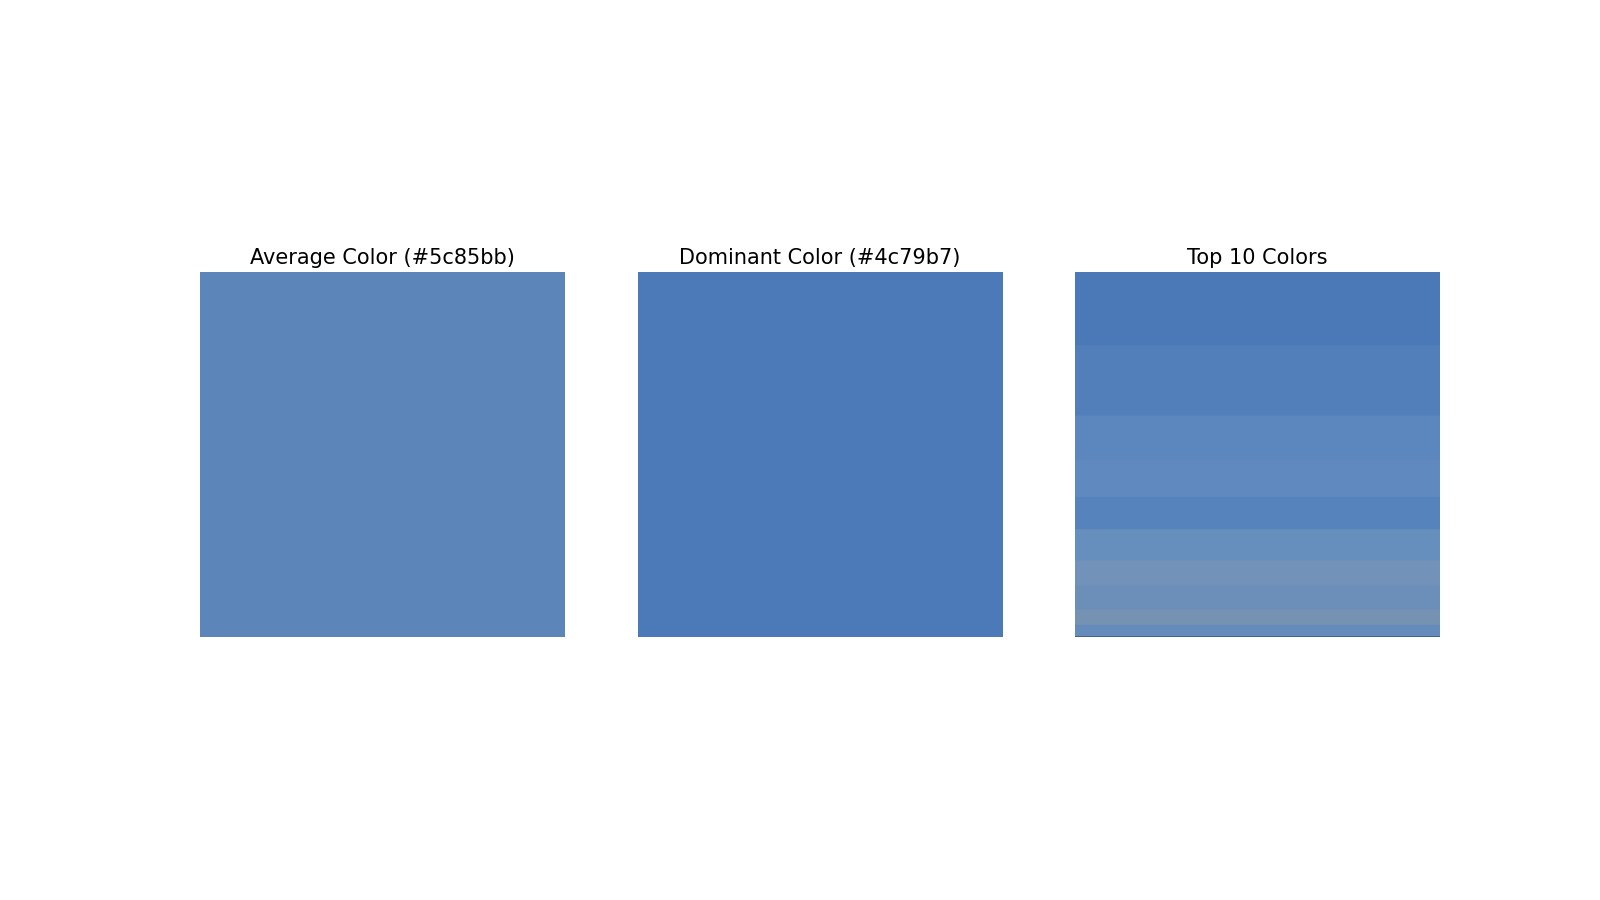
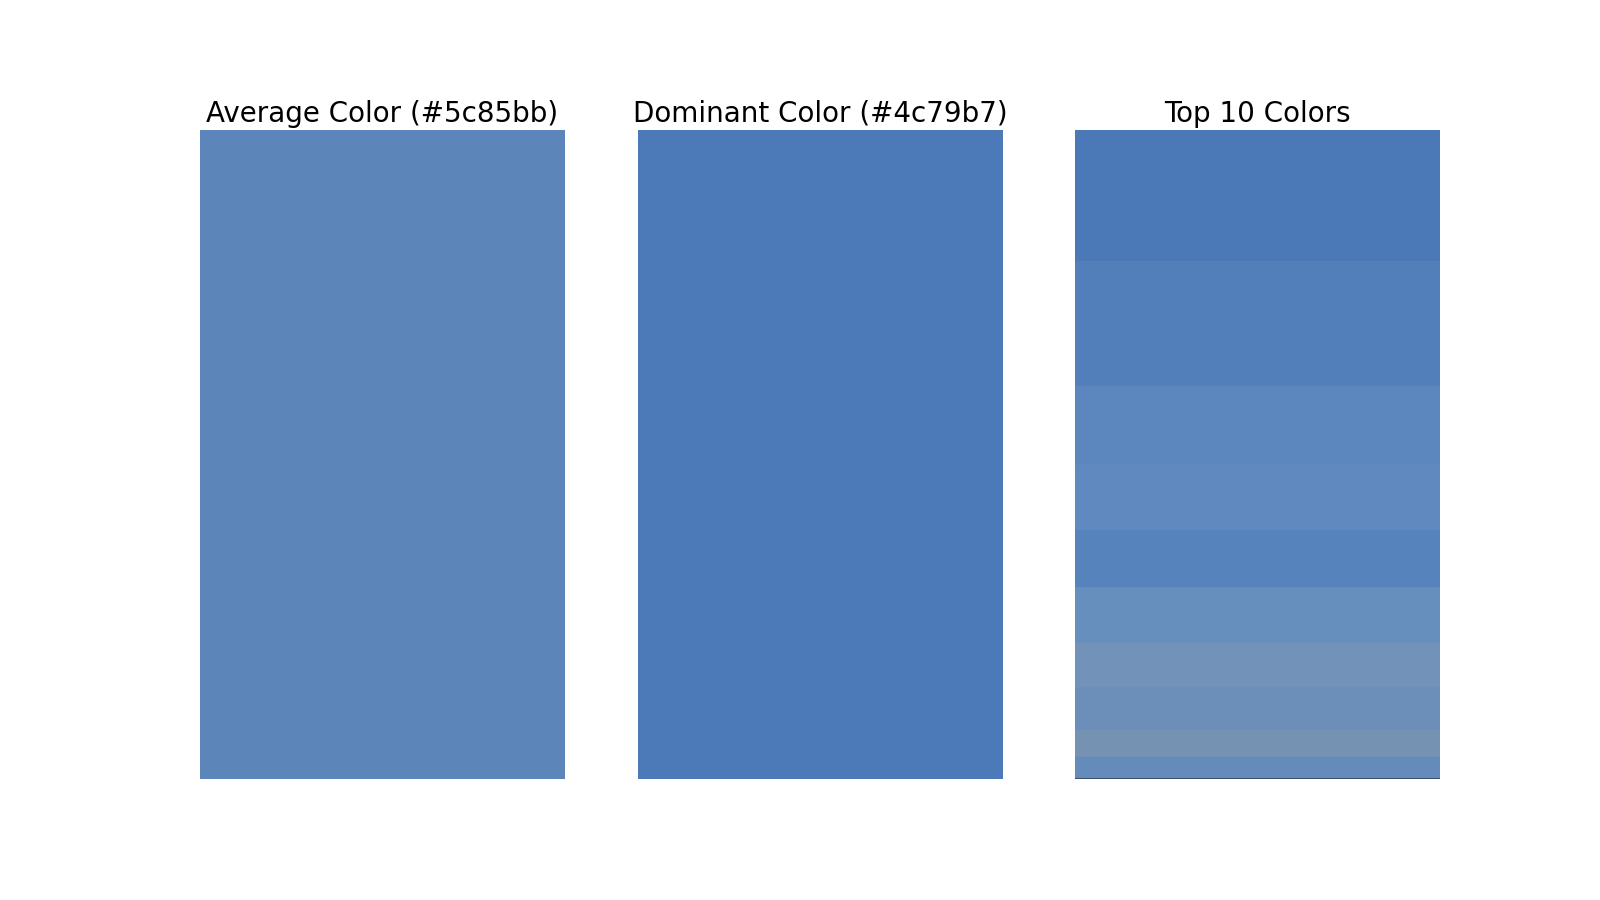
Initial Working Twitter Bot
This initial version uses k-means clustering to determine the top 10 dominant colors and posts the graphics to twitter.

diff --git a/capture_image.js b/capture_image.js
@@ -1,0 +1,31 @@
+const puppeteer = require('puppeteer');
+
+const output_file = process.argv[2];
+
+function timeout(ms) {
+    return new Promise(resolve => setTimeout(resolve, ms));
+};
+
+(async() => {
+    //const browser = await puppeteer.launch();
+
+    const browser = await puppeteer.launch({
+      executablePath: '/bin/google-chrome',
+      headless:false, 
+      defaultViewport:null,
+      devtools: false,
+      args: ["--window-size=1920,800"]
+
+    })
+    const page = await browser.newPage();
+    //await page.setViewport({width: 5960, height: 1000})
+    await page.goto('https://www.youtube.com/watch?v=OEvLTpOKWDM');
+    await timeout(5000)
+    await page.keyboard.press('k');
+    await timeout(1000)
+    await page.keyboard.press('f');
+    await timeout(45000)
+    await page.screenshot({path: output_file});
+    browser.close();
+
+})();

diff --git a/utils.py b/utils.py
@@ -25,6 +25,79 @@ import cv2
 import numpy as np
 from skimage import io
 import matplotlib.pyplot as plt
+from datetime import datetime
+import os
+from twitterutils.twitterutils import tweet
+
+image_dir = "./images"
+raw_dir = os.path.join(image_dir, "raw")
+processed_dir = os.path.join(image_dir, "daily")
+
+def capture_image(filename):
+    """ Captures an image using NodeJS and Puppeteer and saves it to a png file """
+
+    try:
+        os.system("node capture_image.js " + filename)
+    except:
+        return False
+
+    return True
+
+def capture_image_and_tweet():
+    """ Captures an image and tweets the colors """
+ 
+    now = datetime.now()
+
+    baseline_filename = now.strftime("%Y_%m_%d_%H_%M")
+    baseline_folder = now.strftime("%Y_%m_%d")
+    time_ran = now.strftime("%-I:%M %p")
+
+    try:
+        raw_daily_directory = os.path.join(raw_dir, baseline_folder)
+        processed_daily_directory = os.path.join(processed_dir, baseline_folder)
+
+        os.makedirs(raw_daily_directory, exist_ok=True)
+        os.makedirs(processed_daily_directory, exist_ok=True)
+
+        raw_file = os.path.join(raw_daily_directory, baseline_filename+"_raw.png")
+        dom_file = os.path.join(processed_daily_directory, baseline_filename+"_dom.png")
+        avg_file = os.path.join(processed_daily_directory, baseline_filename+"_avg.png")
+        overall_file = os.path.join(processed_daily_directory, baseline_filename+"_overall.png")
+
+        if capture_image(raw_file) == False:
+            print("Error Occurred When Capturing Image...")
+            return
+
+        dom_color, avg_color, color_list = produce_plots(raw_file,
+                                                        dom_file,
+                                                        avg_file,
+                                                        overall_file)
+
+        # print("Average Color: " + avg_color)
+        # print("Dominant Color: " + dom_color)
+
+        tweet_text = f"The top colors in the sky for Grand Forks, ND at {time_ran} are (in order of dominance):"
+
+        for c in color_list:
+            tweet_text += f"\n{c}"
+
+        # Tweet Overall Graphic
+        previous_id = tweet(tweet_text, image_path=overall_file, enable_tweet=True)
+
+        # Tweet Average Graphic
+        tweet_text =  f"The average color of the sky in Grand Forks, ND at {time_ran} is {avg_color}. Read more about this color: https://encycolorpedia.com/{avg_color[1:]}"
+        previous_id = tweet(tweet_text, image_path=avg_file, in_reply_to_status_id=previous_id, enable_tweet=True)
+
+        # Tweet Dominant Graphic
+        tweet_text =  f"The dominant color of the sky in Grand Forks, ND at {time_ran} is {dom_color}. Read more about this color: https://encycolorpedia.com/{dom_color[1:]}"
+        previous_id = tweet(tweet_text, image_path=dom_file, in_reply_to_status_id=previous_id, enable_tweet=True)
+
+        print(f"Successful Run: {time_ran}")
+
+    except Exception as e:
+        print(f"Failed Run: {time_ran}\n" + str(e))
+
+    return
 
 def produce_plots(input_image, dom_image, avg_image, overall_image):
     """ Takes an an input image and outputs:
@@ -66,7 +139,7 @@ def produce_plots(input_image, dom_image, avg_image, overall_image):
     avg_hex = '#%02x%02x%02x' % tuple(np.uint8(np.round(average)))
 
     # Plot Results
-    output_shape=(1300, 1300, 3)
+    output_shape=(1600, 900, 3)
     avg_patch = np.ones(shape=output_shape, dtype=np.uint8)*np.uint8(average)
     dom_patch = np.ones(shape=output_shape, dtype=np.uint8)*np.uint8(np.round(dominant))
 
@@ -82,26 +155,35 @@ def produce_plots(input_image, dom_image, avg_image, overall_image):
     freqs = np.cumsum(np.hstack([[0], counts[indices]/float(counts.sum())]))
     rows = np.int_(output_shape[0]*freqs)
 
+    # Keep Ordered List of Dominant Colors
+    color_list = list()
+
+    for i in indices:
+        hex_color = '#%02x%02x%02x' % tuple(np.uint8(np.round(palette[i])))
+
+        if hex_color not in color_list:
+            color_list.append(hex_color)
+
     all_patch = np.zeros(shape=output_shape, dtype=np.uint8)
     for i in range(len(rows) - 1):
         all_patch[rows[i]:rows[i + 1], :, :] += np.uint8(palette[indices[i]])
 
     fig, (ax0, ax1, ax2) = plt.subplots(1, 3, figsize=(16,9))
     ax0.imshow(avg_patch)
-    ax0.set_title(f'Average Color ({avg_hex})', fontsize=15)
+    ax0.set_title(f'Average Color ({avg_hex})', fontsize=20)
     ax0.axis('off')
     ax1.imshow(dom_patch)
-    ax1.set_title(f'Dominant Color ({dom_hex})', fontsize=15)
+    ax1.set_title(f'Dominant Color ({dom_hex})', fontsize=20)
     ax1.axis('off')
     ax2.imshow(all_patch)
-    ax2.set_title(f'Top {n_colors} Colors', fontsize=15)
+    ax2.set_title(f'Top {len(color_list)} Colors', fontsize=20)
     ax2.axis('off')
     plt.savefig(overall_image)
 
-    return dom_hex, avg_hex
+    return dom_hex, avg_hex, color_list
 
 if __name__ == "__main__":
-    dom_color, avg_color = produce_plots("./example/example.png",
-                                         "./example/dominant.png",
-                                         "./example/average.png",
-                                         "./example/overall.png")
+    dom_color, avg_color, color_list = produce_plots("./example/example.png",
+                                                     "./example/dominant.png",
+                                                     "./example/average.png",
+                                                     "./example/overall.png")

diff --git a/run.py b/run.py
@@ -1,0 +1,51 @@
+#!/usr/bin/env python
+# encoding: utf-8
+
+# Copyright (c) 2021 Grant Hadlich
+#
+#
+# Permission is hereby granted, free of charge, to any person obtaining a copy
+# of this software and associated documentation files (the "Software"), to deal
+# in the Software without restriction, including without limitation the rights
+# to use, copy, modify, merge, publish, distribute, sublicense, and/or sell
+# copies of the Software, and to permit persons to whom the Software is
+# furnished to do so, subject to the following conditions:
+#
+# The above copyright notice and this permission notice shall be included in
+# all copies or substantial portions of the Software.
+#
+# THE SOFTWARE IS PROVIDED "AS IS", WITHOUT WARRANTY OF ANY KIND, EXPRESS OR
+# IMPLIED, INCLUDING BUT NOT LIMITED TO THE WARRANTIES OF MERCHANTABILITY,
+# FITNESS FOR A PARTICULAR PURPOSE AND NONINFRINGEMENT. IN NO EVENT SHALL THE
+# AUTHORS OR COPYRIGHT HOLDERS BE LIABLE FOR ANY CLAIM, DAMAGES OR OTHER
+# LIABILITY, WHETHER IN AN ACTION OF CONTRACT, TORT OR OTHERWISE, ARISING FROM,
+# OUT OF OR IN CONNECTION WITH THE SOFTWARE OR THE USE OR OTHER DEALINGS IN
+# THE SOFTWARE. 
+from utils import produce_plots
+from utils import capture_image_and_tweet
+
+import schedule
+from time import sleep
+
+if __name__ == "__main__":
+    schedule.every().day.at("06:00").do(capture_image_and_tweet)
+    schedule.every().day.at("07:00").do(capture_image_and_tweet)
+    schedule.every().day.at("08:00").do(capture_image_and_tweet)
+    schedule.every().day.at("09:00").do(capture_image_and_tweet)
+    schedule.every().day.at("10:00").do(capture_image_and_tweet)
+    schedule.every().day.at("11:00").do(capture_image_and_tweet)
+    schedule.every().day.at("12:00").do(capture_image_and_tweet)
+    schedule.every().day.at("13:00").do(capture_image_and_tweet)
+    schedule.every().day.at("14:00").do(capture_image_and_tweet)
+    schedule.every().day.at("15:00").do(capture_image_and_tweet)
+    schedule.every().day.at("16:00").do(capture_image_and_tweet)
+    schedule.every().day.at("17:00").do(capture_image_and_tweet)
+    schedule.every().day.at("18:00").do(capture_image_and_tweet)
+    schedule.every().day.at("19:00").do(capture_image_and_tweet)
+    schedule.every().day.at("20:00").do(capture_image_and_tweet)
+    schedule.every().day.at("21:00").do(capture_image_and_tweet)
+    schedule.every().day.at("22:00").do(capture_image_and_tweet)
+
+    while True:
+        schedule.run_pending()
+        sleep(1)
